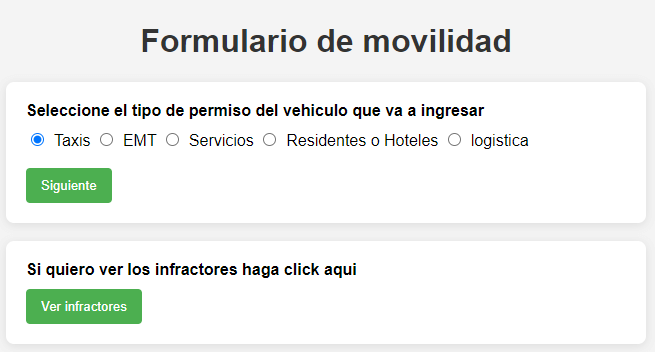
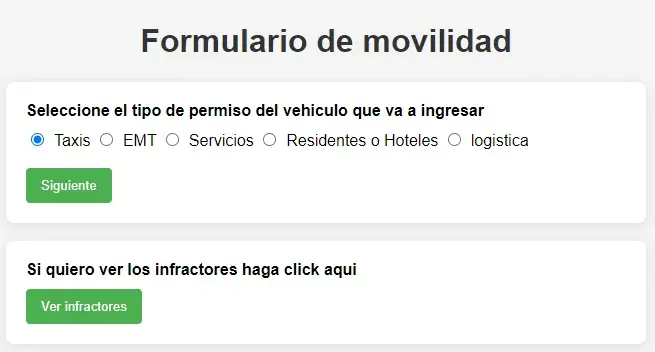
Optimizacion de imagenes

diff --git a/src/app/components/projects/projects.ts b/src/app/components/projects/projects.ts
@@ -21,7 +21,7 @@ export class Projects {
         titulo: 'Pokedex',
         descripcion:
           'Este proyecto es una aplicación web que muestra una lista de Pokémon con información básica de cada uno.',
-        imagen: 'assets/img_proyectos/Pokedex.png',
+        imagen: 'assets/img_proyectos/Pokedex.webp',
         web: 'https://sam324sam.github.io/Pokedex/',
         repo: 'https://github.com/sam324sam/Pokedex',
       },
@@ -29,7 +29,7 @@ export class Projects {
         titulo: 'To do list Frontend',
         descripcion:
           'Proyecto de una lista de tareas (To-Do List) desarrollado con Angular. Permite a los usuarios agregar, eliminar y marcar tareas como completadas.',
-        imagen: 'assets/img_proyectos/To-do-list-Frontend.png',
+        imagen: 'assets/img_proyectos/To-do-list-Frontend.webp',
         web: 'https://sam324sam.github.io/To-do-list-Frontend/',
         repo: 'https://github.com/sam324sam/To-do-list-Frontend',
       },
@@ -37,7 +37,7 @@ export class Projects {
         titulo: 'To do list Backend',
         descripcion:
           'API REST desarrollada con Spring Boot y Java 17 que permite gestionar usuarios, crear listas de tareas con etiquetas y compartirlas de forma colaborativa.',
-        imagen: 'assets/img_proyectos/To-do-list-Backend.png',
+        imagen: 'assets/img_proyectos/To-do-list-Backend.webp',
         web: '',
         repo: 'https://github.com/DannaPatricia/To-do-list-Backend',
       },
@@ -45,7 +45,7 @@ export class Projects {
         titulo: 'Proyecto fct',
         descripcion:
           'Este repositorio contiene el proyecto final de ciclo formativo de grado superior, desarrollado como parte de la Formación en Centros de Trabajo (FCT).',
-        imagen: 'assets/img_proyectos/Proyecto_fct.png',
+        imagen: 'assets/img_proyectos/Proyecto_fct.webp',
         web: 'https://sam324sam.github.io/Proyecto-fct/',
         repo: 'https://github.com/sam324sam/Proyecto-fct',
       },
@@ -53,7 +53,7 @@ export class Projects {
         titulo: 'Soporte-Tecnico-App',
         descripcion:
           'Aplicación web de soporte técnico para la creación, gestión y seguimiento de diferentes casos de soporte.',
-        imagen: 'assets/img_proyectos/Soporte-Tecnico-App.png',
+        imagen: 'assets/img_proyectos/Soporte-Tecnico-App.webp',
         web: 'https://dannapatricia.github.io/Soporte-Tecnico-App/',
         repo: 'https://github.com/DannaPatricia/Soporte-Tecnico-App',
       },
@@ -61,14 +61,14 @@ export class Projects {
         titulo: 'Juego de Naves en Godot',
         descripcion:
           'Este es un juego de naves en 2D desarrollado con Godot, creado como un reto personal para aprender a usar este motor de desarrollo en un mes.',
-        imagen: 'assets/img_proyectos/Primer_Juego_En_Godot.png',
+        imagen: 'assets/img_proyectos/Primer_Juego_En_Godot.webp',
         web: '',
         repo: 'https://github.com/sam324sam/Primer_Juego_En_Godot',
       },
       {
         titulo: 'Juego de Memoria',
         descripcion: 'Un juego hecho con HTML, CSS y JavaScript.',
-        imagen: 'assets/img_proyectos/Juego_De_Memoria.png',
+        imagen: 'assets/img_proyectos/Juego_De_Memoria.webp',
         web: 'https://sam324sam.github.io/Juego_De_Memoria/',
         repo: 'https://github.com/sam324sam/Juego_De_Memoria',
       },
@@ -76,7 +76,7 @@ export class Projects {
         titulo: 'Tienda Videojuegos Java',
         descripcion:
           'Este proyecto es una aplicación web que gestiona el stock de una tienda de videojuegos en java.',
-        imagen: 'assets/img_proyectos/Servlet_Inicio.PNG',
+        imagen: 'assets/img_proyectos/Servlet_Inicio.webp',
         web: '',
         repo: 'https://github.com/sam324sam/Tienda_Videojuegos_Java',
       },
@@ -84,21 +84,21 @@ export class Projects {
         titulo: 'Gestion FCT con nodejs',
         descripcion:
           'Proyecto de principiante para aprender node js. Donde se simulara la gestion de una aplicacion para la asignacion de empresas para alumnos de FCT',
-        imagen: 'assets/img_proyectos/Gestion_FCT_Nodejs.png',
+        imagen: 'assets/img_proyectos/Gestion_FCT_Nodejs.webp',
         web: '',
         repo: 'https://github.com/sam324sam/Gestion_FCT_Nodejs',
       },
       {
         titulo: 'Gestion Profesorado PHP',
         descripcion: 'En este proyecto daremos uso de una DB conjunto a PHP',
-        imagen: 'assets/img_proyectos/Gestion_Profesores_PHP.PNG',
+        imagen: 'assets/img_proyectos/Gestion_Profesores_PHP.webp',
         web: '',
         repo: 'https://github.com/sam324sam/Gestion_Profesorado_PHP',
       },
       {
         titulo: 'Juego Conecta 4',
         descripcion: 'Un juego hecho con HTML, CSS y JavaScript.',
-        imagen: 'assets/img_proyectos/Conecta4.png',
+        imagen: 'assets/img_proyectos/Conecta4.webp',
         web: 'https://sam324sam.github.io/Conecta_4/',
         repo: 'https://github.com/sam324sam/Conecta_4',
       },
@@ -106,7 +106,7 @@ export class Projects {
         titulo: 'Calculadora Interactiva',
         descripcion:
           'Un proyecto interactivo en JavaScript que simula el uso de una calculadora simple.',
-        imagen: 'assets/img_proyectos/Calculadora.png',
+        imagen: 'assets/img_proyectos/Calculadora.webp',
         web: 'https://sam324sam.github.io/Calculadora/',
         repo: 'https://github.com/sam324sam/Calculadora',
       },
@@ -120,7 +120,7 @@ export class Projects {
       {
         titulo: 'Mini animación de escribir',
         descripcion: 'Mini animación que simula la escritura de hola mundo usando JS.',
-        imagen: 'assets/img_proyectos/Hola_Mundo.png',
+        imagen: 'assets/img_proyectos/Hola_Mundo.webp',
         web: 'https://sam324sam.github.io/Hola_Mundo/',
         repo: 'https://github.com/sam324sam/Hola_Mundo',
       },

diff --git a/src/app/components/about/about.html b/src/app/components/about/about.html
@@ -15,7 +15,7 @@
     <div
       class="conteido_sobreMi"
       [class.abierto]="contentToShow[0]"
-      style="background-image: url('assets/img_sobreMi/quiensoy.jpg')"
+      style="background-image: url('assets/img_sobreMi/quiensoy.webp')"
     >
       <p class="texto_sobreMi">
         Soy estudiante de segundo año en Desarrollo de Aplicaciones Web (DAW), con experiencia en
@@ -36,7 +36,7 @@
     <div
       class="conteido_sobreMi"
       [class.abierto]="contentToShow[1]"
-      style="background-image: url('assets/img_sobreMi/intereses.jpg')"
+      style="background-image: url('assets/img_sobreMi/intereses.webp')"
     >
       <p class="texto_sobreMi">
         Me apasiona el desarrollo front-end, la creación de interfaces intuitivas y el uso de
@@ -55,7 +55,7 @@
     <div
       class="conteido_sobreMi"
       [class.abierto]="contentToShow[2]"
-      style="background-image: url('assets/img_sobreMi/quebusco.jpg')"
+      style="background-image: url('assets/img_sobreMi/quebusco.webp')"
     >
       <p class="texto_sobreMi">
         Busco oportunidades de prácticas donde pueda aplicar mis conocimientos y aprender de
@@ -78,7 +78,7 @@
       </p>
       <embed
         style="border-radius: 20px; margin-top: 10px"
-        src="assets/img_sobreMi/CVSamuelMoniz.pdf"
+        src="assets/img_sobreMi/SamuelMonizCV.pdf"
         width="100%"
         height="700px"
       />

diff --git a/src/app/components/header/header.html b/src/app/components/header/header.html
@@ -11,7 +11,7 @@
         </li>
         <li class="item_navegacion">
           <a class="enlace_navegacion" href="#bienvenida">
-            <img class="logo" src="assets/img_cabecera/logo.png" alt="logo" href="#" />
+            <img class="logo" src="assets/img_cabecera/logo.webp" alt="logo" href="#" />
           </a>
         </li>
         <li class="item_navegacion">
@@ -26,7 +26,7 @@
       <ul class="navegacion_movil">
         <li class="item_navegacion">
           <a class="enlace_navegacion" href="#bienvenida">
-            <img class="logo" src="assets/img_cabecera/logo.png" alt="logo" />
+            <img class="logo" src="assets/img_cabecera/logo.webp" alt="logo" />
           </a>
         </li>
 

diff --git a/src/app/components/welcome/welcome.html b/src/app/components/welcome/welcome.html
@@ -2,7 +2,7 @@
 <section class="seccion_bienvenida">
   <div class="contenedor bienvenida_contenedor">
     <div class="bienvenida_imagen">
-      <img src="assets/img_sobreMi/mi_foto.png" alt="Samuel Moniz" />
+      <img src="assets/img_sobreMi/mi_foto.webp" alt="Samuel Moniz" />
     </div>
     <div class="bienvenida_texto">
       <h1>Soy Samuel Moniz</h1>
@@ -20,7 +20,7 @@
           <i class="fa-brands fa-linkedin icono"></i>
         </a>
         <a
-          href="asset/img_sobreMi/CVSamuelMoniz.pdf"
+          href="asset/img_sobreMi/SamuelMonizCV.pdf"
           download="Curriculum_Samuel_Moniz.pdf"
           title="Currículum"
         >